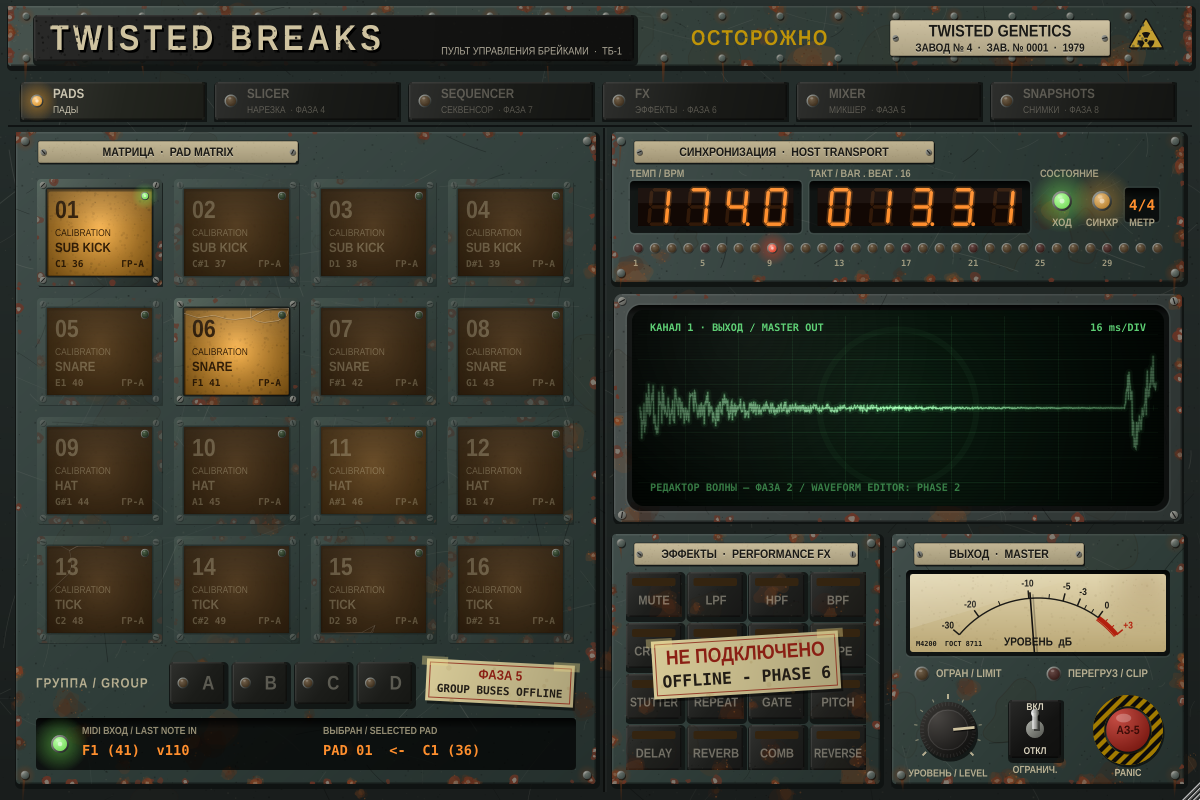
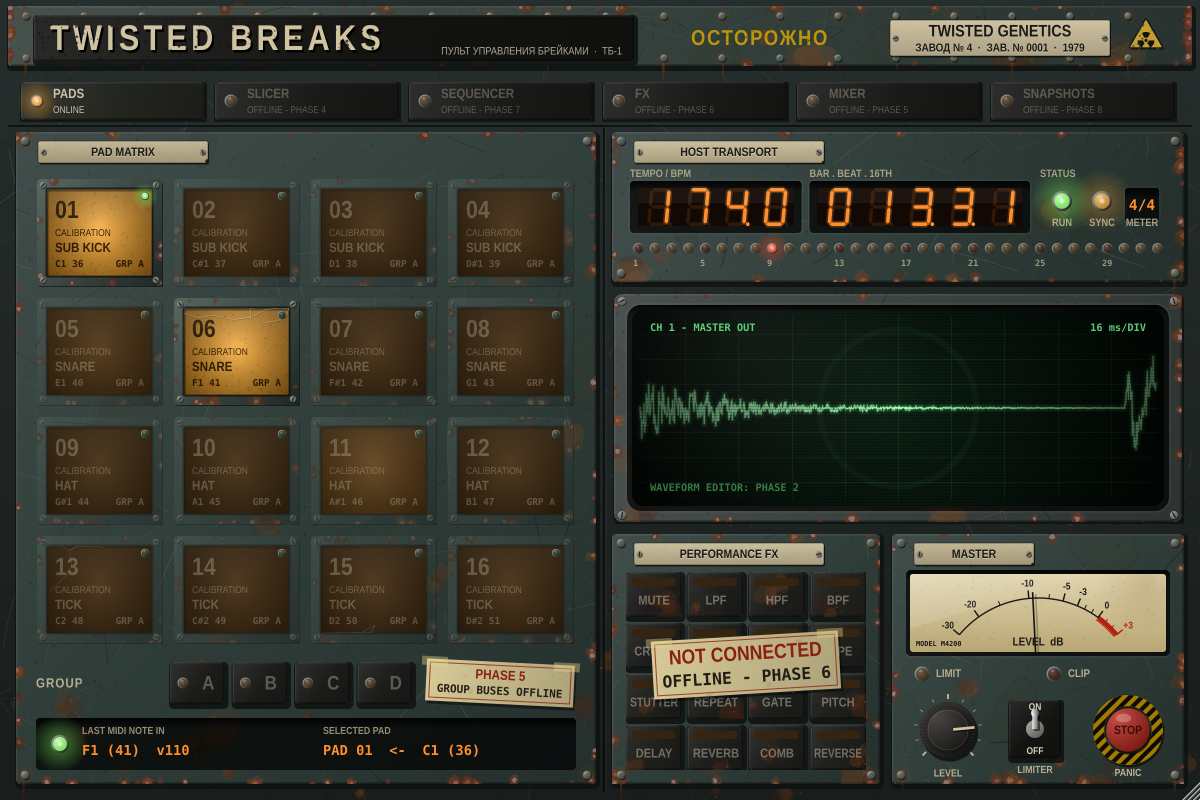
UI: English-only labels outside the header
Russian kept in the header strip (subtitle, warning stencil, maker's plate)
alongside the radiation sticker; all other panel text is English.

Claude-Session: https://claude.ai/code/session_012tVLx6PGyskeBDoumSq68p

diff --git a/Source/UI/MainView.cpp b/Source/UI/MainView.cpp
@@ -55,8 +55,8 @@ namespace tb::ui
         paint::plate (g, plateR, c::plateBlack, 3.0f);
         g.setColour (c::plateText);
         g.setFont (industrialFont (11.0f));
-        g.drawText (cyr ("ВКЛ"),  plateR.removeFromTop (14.0f), Justification::centred, false);
-        g.drawText (cyr ("ОТКЛ"), plateR.removeFromBottom (14.0f), Justification::centred, false);
+        g.drawText (String ("ON"),  plateR.removeFromTop (14.0f), Justification::centred, false);
+        g.drawText (String ("OFF"), plateR.removeFromBottom (14.0f), Justification::centred, false);
 
         // Nut and bat handle.
         const auto ctr = plateR.getCentre();
@@ -78,7 +78,7 @@ namespace tb::ui
 
         g.setColour (c::bakelite.withAlpha (0.85f));
         g.setFont (industrialFont (11.5f));
-        g.drawText (cyr ("ОГРАНИЧ."), b.withTop (b.getBottom() - 16.0f), Justification::centred, false);
+        g.drawText (String ("LIMITER"), b.withTop (b.getBottom() - 16.0f), Justification::centred, false);
     }
 
     //==========================================================================
@@ -86,7 +86,7 @@ namespace tb::ui
     //==========================================================================
     PanicButton::PanicButton() : Button ("Panic")
     {
-        setTooltip ("AZ-5 / PANIC: stop every voice with a short fade (also MIDI CC 120)");
+        setTooltip ("PANIC: stop every voice with a short fade (also MIDI CC 120)");
     }
 
     void PanicButton::paintButton (Graphics& g, bool highlighted, bool down)
@@ -131,7 +131,7 @@ namespace tb::ui
 
         g.setColour (Colour (0xff2a0602).withAlpha (0.85f));
         g.setFont (industrialFont (capR * 0.62f));
-        g.drawText (cyr ("АЗ-5"), cap, Justification::centred, false);
+        g.drawText (String ("STOP"), cap, Justification::centred, false);
 
         g.setColour (c::bakelite.withAlpha (0.9f));
         g.setFont (industrialFont (11.5f));
@@ -141,8 +141,8 @@ namespace tb::ui
     //==========================================================================
     //  SelectorKey
     //==========================================================================
-    SelectorKey::SelectorKey (const String& latin, const String& cyrillic, int phaseNumber)
-        : Button (latin), phase (phaseNumber), latinName (latin), cyrName (cyrillic)
+    SelectorKey::SelectorKey (const String& latin, int phaseNumber)
+        : Button (latin), phase (phaseNumber), latinName (latin)
     {
         setEnabled (phase <= 1);
         setTooltip (phase <= 1 ? latin + " view"
@@ -163,7 +163,7 @@ namespace tb::ui
         g.setFont (industrialFont (15.0f));
         g.drawText (latinName, txt.removeFromTop (txt.getHeight() * 0.56f), Justification::centredLeft, false);
         g.setFont (industrialFont (11.0f, false));
-        g.drawText (active ? cyrName : cyrName + cyr ("  · ФАЗА ") + String (phase),
+        g.drawText (active ? String ("ONLINE") : "OFFLINE - PHASE " + String (phase),
                     txt, Justification::centredLeft, false);
     }
 
@@ -217,9 +217,9 @@ namespace tb::ui
 
         auto noteName = [] (int n) { return n < 0 ? String ("---") : MidiMessage::getMidiNoteName (n, true, true, 3) + " (" + String (n) + ")"; };
 
-        readout (b.removeFromLeft (b.getWidth() * 0.5f), cyr ("MIDI ВХОД / LAST NOTE IN"),
+        readout (b.removeFromLeft (b.getWidth() * 0.5f), "LAST MIDI NOTE IN",
                  lastNote < 0 ? String ("--- waiting ---") : noteName (lastNote) + "  v" + String (lastVel));
-        readout (b, cyr ("ВЫБРАН / SELECTED PAD"),
+        readout (b, "SELECTED PAD",
                  "PAD " + String (selPad + 1).paddedLeft ('0', 2) + "  <-  " + noteName (selNote));
     }
 
@@ -259,17 +259,13 @@ namespace tb::ui
         addAndMakeVisible (panicButton);
         panicButton.onClick = [this] { processor.requestPanic(); panicButton.flash(); };
 
-        struct NavDef { const char* latin; const char* cyrillic; int phase; };
+        struct NavDef { const char* latin; int phase; };
         const NavDef nav[] = {
-            { "PADS",      "ПАДЫ",       1 },
-            { "SLICER",    "НАРЕЗКА",    4 },
-            { "SEQUENCER", "СЕКВЕНСОР",  7 },
-            { "FX",        "ЭФФЕКТЫ",    6 },
-            { "MIXER",     "МИКШЕР",     5 },
-            { "SNAPSHOTS", "СНИМКИ",     8 },
+            { "PADS", 1 }, { "SLICER", 4 }, { "SEQUENCER", 7 },
+            { "FX",   6 }, { "MIXER",  5 }, { "SNAPSHOTS", 8 },
         };
         for (const auto& n : nav)
-            addAndMakeVisible (navKeys.add (new SelectorKey (n.latin, cyr (n.cyrillic), n.phase)));
+            addAndMakeVisible (navKeys.add (new SelectorKey (n.latin, n.phase)));
 
         padGrid.onSelectionChanged = [this] (int) { status.refresh (padGrid.getSelectedPad()); };
 
@@ -444,20 +440,20 @@ namespace tb::ui
                             Justification::centred, c::hazardYellow.withAlpha (0.55f), rnd);
 
         // 6. Section captions.
-        auto caption = [&] (Rectangle<int> panel, const String& ru, const String& en, float width)
+        auto caption = [&] (Rectangle<int> panel, const String& text, float width)
         {
             paint::labelPlate (g, { (float) panel.getX() + 22.0f, (float) panel.getY() + 9.0f, width, 22.0f },
-                               ru + "  ·  " + en, {}, paint::PlateStyle::bakelite, rnd);
+                               text, {}, paint::PlateStyle::bakelite, rnd);
         };
-        caption (layout::padPanel,    cyr ("МАТРИЦА"),  "PAD MATRIX",     260.0f);
-        caption (layout::transPanel,  cyr ("СИНХРОНИЗАЦИЯ"), "HOST TRANSPORT", 300.0f);
-        caption (layout::fxPanel,     cyr ("ЭФФЕКТЫ"),  "PERFORMANCE FX", 224.0f);
-        caption (layout::masterPanel, cyr ("ВЫХОД"),    "MASTER",         170.0f);
+        caption (layout::padPanel,    "PAD MATRIX",     170.0f);
+        caption (layout::transPanel,  "HOST TRANSPORT", 190.0f);
+        caption (layout::fxPanel,     "PERFORMANCE FX", 190.0f);
+        caption (layout::masterPanel, "MASTER",         120.0f);
 
         // 7. Group selector A-D (future: Phase 5) — dead keys + tag.
         {
             const auto row = layout::groupRow.toFloat();
-            paint::stencilText (g, cyr ("ГРУППА / GROUP"), row.withWidth (120.0f), 15.0f,
+            paint::stencilText (g, "GROUP", row.withWidth (120.0f), 15.0f,
                                 Justification::centredLeft, c::bakelite, rnd);
             auto keys = row.withTrimmedLeft (130.0f).withWidth (250.0f);
             const char* letters[] = { "A", "B", "C", "D" };
@@ -471,13 +467,13 @@ namespace tb::ui
                 g.drawText (letters[i], k.withTrimmedLeft (22.0f), Justification::centred, false);
             }
             paint::paperTag (g, { row.getRight() - 150.0f, row.getY() + 2.0f, 148.0f, 42.0f }, 0.05f,
-                             { cyr ("ФАЗА 5"), "GROUP BUSES OFFLINE" }, rnd);
+                             { "PHASE 5", "GROUP BUSES OFFLINE" }, rnd);
         }
 
         // 8. Master section legends.
         g.setColour (c::bakelite.withAlpha (0.85f));
         g.setFont (industrialFont (11.5f));
-        g.drawText (cyr ("УРОВЕНЬ / LEVEL"), layout::masterKnob.toFloat().withY ((float) layout::masterKnob.getBottom()).withHeight (14.0f).expanded (14.0f, 0.0f),
+        g.drawText ("LEVEL", layout::masterKnob.toFloat().withY ((float) layout::masterKnob.getBottom()).withHeight (14.0f).expanded (14.0f, 0.0f),
                     Justification::centred, false);
 
         // 9. Panel seams between cabinet sections.

diff --git a/Source/UI/TransportDisplay.cpp b/Source/UI/TransportDisplay.cpp
@@ -61,18 +61,18 @@ namespace tb::ui
         auto posArea  = top.removeFromLeft (w * 0.42f).reduced (4.0f, 0.0f);
         auto lampArea = top.reduced (6.0f, 0.0f);
 
-        window (bpmArea, String (bpm, 1), 4, cyr ("ТЕМП / BPM"));
+        window (bpmArea, String (bpm, 1), 4, "TEMPO / BPM");
 
         // Bar . beat . 16th, all 1-based like Ableton's own display.
         const double beatLen   = 4.0 / (double) jmax (1, den);
         const int    sixteenth = (int) std::floor (std::fmod (std::max (0.0, ppq), beatLen) / 0.25 + 1.0e-6) + 1;
         const String pos = String (bar + 1).paddedLeft ('0', 3) + "." + String (beat + 1) + "." + String (sixteenth);
-        window (posArea, pos, 5, cyr ("ТАКТ / BAR . BEAT . 16"));
+        window (posArea, pos, 5, "BAR . BEAT . 16TH");
 
         // ---- Lamps: RUN / HOST, and the time signature on a plate -------------
         g.setColour (c::bakelite.withAlpha (0.75f));
         g.setFont (industrialFont (12.0f));
-        g.drawText (cyr ("СОСТОЯНИЕ"), lampArea.removeFromTop (15.0f), Justification::centredLeft, false);
+        g.drawText ("STATUS", lampArea.removeFromTop (15.0f), Justification::centredLeft, false);
 
         auto lamps = lampArea.reduced (2.0f, 4.0f);
         auto runCell  = lamps.removeFromLeft (lamps.getWidth() / 3.0f);
@@ -86,8 +86,8 @@ namespace tb::ui
             g.setFont (industrialFont (12.0f));
             g.drawText (cap, cell.withTrimmedTop (32.0f), Justification::centredTop, false);
         };
-        lampWithCaption (runCell,  c::green, c::greenDim, playing ? 1.0f : 0.0f, cyr ("ХОД"));
-        lampWithCaption (hostCell, c::amber, c::amberDim, host ? 0.8f : 0.0f, cyr ("СИНХР"));
+        lampWithCaption (runCell,  c::green, c::greenDim, playing ? 1.0f : 0.0f, "RUN");
+        lampWithCaption (hostCell, c::amber, c::amberDim, host ? 0.8f : 0.0f, "SYNC");
 
         paint::recess (g, sigCell.withSizeKeepingCentre (sigCell.getWidth() - 6.0f, 34.0f).translated (0, -2), 3.0f);
         g.setColour (c::vfd);
@@ -96,7 +96,7 @@ namespace tb::ui
                     Justification::centred, false);
         g.setColour (c::bakelite.withAlpha (0.8f));
         g.setFont (industrialFont (12.0f));
-        g.drawText (cyr ("МЕТР"), sigCell.withTrimmedTop (32.0f), Justification::centredTop, false);
+        g.drawText ("METER", sigCell.withTrimmedTop (32.0f), Justification::centredTop, false);
 
         // ---- 32-step playhead lamp row ------------------------------------------
         area.removeFromTop (6.0f);

diff --git a/Source/UI/NeedleMeter.cpp b/Source/UI/NeedleMeter.cpp
@@ -131,10 +131,10 @@ namespace tb::ui
 
         g.setColour (c::engraving);
         g.setFont (industrialFont (13.0f));
-        g.drawText (cyr ("УРОВЕНЬ  дБ"), dial.withTrimmedTop (dial.getHeight() * 0.5f).withTrimmedBottom (4.0f),
+        g.drawText ("LEVEL  dB", dial.withTrimmedTop (dial.getHeight() * 0.5f).withTrimmedBottom (4.0f),
                     Justification::centredBottom, false);
         g.setFont (monoFont (8.0f));
-        g.drawText (cyr ("М4200  ГОСТ 8711"), dial.reduced (6.0f, 4.0f), Justification::bottomLeft, false);
+        g.drawText ("MODEL M4200", dial.reduced (6.0f, 4.0f), Justification::bottomLeft, false);
     }
 
     void NeedleMeter::paint (Graphics& g)
@@ -177,7 +177,7 @@ namespace tb::ui
             g.setFont (industrialFont (12.5f));
             g.drawText (cap, r.withTrimmedLeft (30.0f), Justification::centredLeft, false);
         };
-        lampRow (left,  c::amber, c::amberDim, limiting ? 1.0f : 0.0f,                    cyr ("ОГРАН / LIMIT"));
-        lampRow (lamps, c::red,   c::redDim,   overloadHold > 0.0f ? 1.0f : 0.0f, cyr ("ПЕРЕГРУЗ / CLIP"));
+        lampRow (left,  c::amber, c::amberDim, limiting ? 1.0f : 0.0f,                    "LIMIT");
+        lampRow (lamps, c::red,   c::redDim,   overloadHold > 0.0f ? 1.0f : 0.0f, "CLIP");
     }
 }

diff --git a/Source/UI/MainView.h b/Source/UI/MainView.h
@@ -13,7 +13,7 @@ class TwistedBreaksProcessor;
 namespace tb::ui
 {
     //==========================================================================
-    /** Bat-handle toggle switch on a ВКЛ / ОТКЛ (on/off) plate. */
+    /** Bat-handle toggle switch on an ON / OFF plate. */
     class ToggleSwitch final : public juce::Button
     {
     public:
@@ -21,7 +21,7 @@ namespace tb::ui
         void paintButton (juce::Graphics&, bool highlighted, bool down) override;
     };
 
-    /** The AZ-5 style emergency button: red mushroom in a hazard collar. */
+    /** Emergency stop: red mushroom button in a hazard-striped collar. */
     class PanicButton final : public juce::Button
     {
     public:
@@ -37,11 +37,11 @@ namespace tb::ui
     class SelectorKey final : public juce::Button
     {
     public:
-        SelectorKey (const juce::String& latin, const juce::String& cyrillic, int phase);
+        SelectorKey (const juce::String& name, int phase);
         void paintButton (juce::Graphics&, bool highlighted, bool down) override;
         const int phase;
     private:
-        juce::String latinName, cyrName;
+        juce::String latinName;
     };
 
     /** MIDI input lamp, last note received and the selected pad's mapping. */

diff --git a/Source/UI/ScopeDisplay.cpp b/Source/UI/ScopeDisplay.cpp
@@ -166,9 +166,9 @@ namespace tb::ui
         auto txt = screenArea().reduced (18.0f, 12.0f);
         g.setColour (c::phosphor.withAlpha (0.8f));
         g.setFont (monoFont (12.0f));
-        g.drawText (cyr ("КАНАЛ 1 · ВЫХОД / MASTER OUT"), txt, Justification::topLeft, false);
+        g.drawText ("CH 1 - MASTER OUT", txt, Justification::topLeft, false);
         g.drawText ("16 ms/DIV", txt, Justification::topRight, false);
         g.setColour (c::phosphor.withAlpha (0.45f));
-        g.drawText (cyr ("РЕДАКТОР ВОЛНЫ — ФАЗА 2 / WAVEFORM EDITOR: PHASE 2"), txt, Justification::bottomLeft, false);
+        g.drawText ("WAVEFORM EDITOR: PHASE 2", txt, Justification::bottomLeft, false);
     }
 }

diff --git a/Source/UI/PadComponent.cpp b/Source/UI/PadComponent.cpp
@@ -155,8 +155,8 @@ namespace tb::ui
         const String noteText = note >= 0 ? MidiMessage::getMidiNoteName (note, true, true, 3) + " " + String (note)
                                           : String ("--");
         g.drawText (noteText, footer, Justification::centredLeft, false);
-        g.drawText (cyr ("ГР-") + String::charToString ((juce_wchar) group),
-                    footer, Justification::centredRight, false);   // ГР = группа (group)
+        g.drawText ("GRP " + String::charToString ((juce_wchar) group),
+                    footer, Justification::centredRight, false);
 
         // 3. Static overlay (bezel, grime, cracks).
         g.drawImage (overlay, getLocalBounds().toFloat());

diff --git a/Source/UI/Palette.h b/Source/UI/Palette.h
@@ -9,7 +9,10 @@
     forty years. Oxidised blue-green enamel over steel, worn through to red
     primer and bare metal at the edges; rust blooms and drips under every
     rivet; yellowed bakelite label plates with engraved Cyrillic; amber
-    incandescent lamps; a green-phosphor CRT; an AZ-5 style emergency button.
+    incandescent lamps; a green-phosphor CRT; a red emergency-stop button.
+
+    Russian text appears only in the header strip (subtitle, warning
+    stencil, maker's plate); every other label is English.
 
     Everything stays high-contrast enough to read on a dark stage.
 */

diff --git a/Source/UI/NeedleMeter.h b/Source/UI/NeedleMeter.h
@@ -11,8 +11,8 @@ namespace tb::ui
         Master peak meter as a moving-coil panel meter: yellowed paper scale
         in dBFS, black needle with mechanical-feeling ballistics, red zone
         from 0 dB, plus two lamps:
-            ОГРАН (limiting)  — the master limiter is reducing gain
-            ПЕРЕГРУЗ (overload) — a sample hit 0 dBFS (latched ~1.5 s)
+            LIMIT — the master limiter is reducing gain
+            CLIP  — a sample hit 0 dBFS (latched ~1.5 s)
     */
     class NeedleMeter final : public juce::Component
     {

diff --git a/Source/UI/FXGrid.cpp b/Source/UI/FXGrid.cpp
@@ -64,7 +64,7 @@ namespace tb::ui
         // The tag that says it all.
         paint::paperTag (g, area.withSizeKeepingCentre (area.getWidth() * 0.78f, 58.0f).translated (0.0f, -6.0f),
                          -0.06f,
-                         { cyr ("НЕ ПОДКЛЮЧЕНО"), "OFFLINE - PHASE 6" }, rnd);
+                         { "NOT CONNECTED", "OFFLINE - PHASE 6" }, rnd);
     }
 
     void FXGrid::paint (Graphics& g)

diff --git a/README.md b/README.md
@@ -4,9 +4,10 @@ A jungle / drum & bass performance sampler, break slicer, sequencer and
 multi-FX instrument for Ableton Live — built in C++ with JUCE 8 as a real
 **VST3** and **Audio Unit** plugin.
 
-Skinned as a forty-year-old Soviet power-plant control console: oxidised
+Skinned as a forty-year-old Soviet power-plant control console (Russian
+in the header, English labels everywhere else): oxidised
 enamel, rust, bakelite label plates, amber annunciator pads, a green-phosphor
-CRT and an AZ-5 panic button.
+CRT and a red emergency-stop panic button.
 
 ![Phase 1 console](docs/screenshots/phase1.png)
 
@@ -31,7 +32,7 @@ visibly marked offline on the panel (dark lamps + taped-on tags).
   playhead** read from Ableton
 * Master **level** (automatable), zero-latency **limiter** (-0.3 dBFS ceiling),
   moving-needle **peak meter** with limit/clip lamps, output **oscilloscope**
-* **AZ-5 / PANIC** — button, automatable `Panic` parameter, or MIDI CC 120
+* **PANIC** (red STOP button) — button, automatable `Panic` parameter, or MIDI CC 120
 * State (parameters + MIDI note map) saved in the Live Set
 * Resizable window (75 %–150 %)
 

diff --git a/docs/ABLETON_TEST_CHECKLIST.md b/docs/ABLETON_TEST_CHECKLIST.md
@@ -58,7 +58,7 @@ TwistedBreaks; a second with a Drum Rack for timing comparison.
 - [ ] No dropouts, clicks or CPU spike while switching every beat for 2 minutes
 
 ## Panic
-- [ ] ✅ AZ-5 button: all sound stops within ~5 ms, no click, button flashes
+- [ ] ✅ PANIC (red STOP) button: all sound stops within ~5 ms, no click, button flashes
 - [ ] ✅ MIDI CC 120 (All Sound Off) acts as panic
 - [ ] Phase 6/7: panic also kills stutter, beat repeat, delay/reverb tails and sequencer-triggered voices
 
